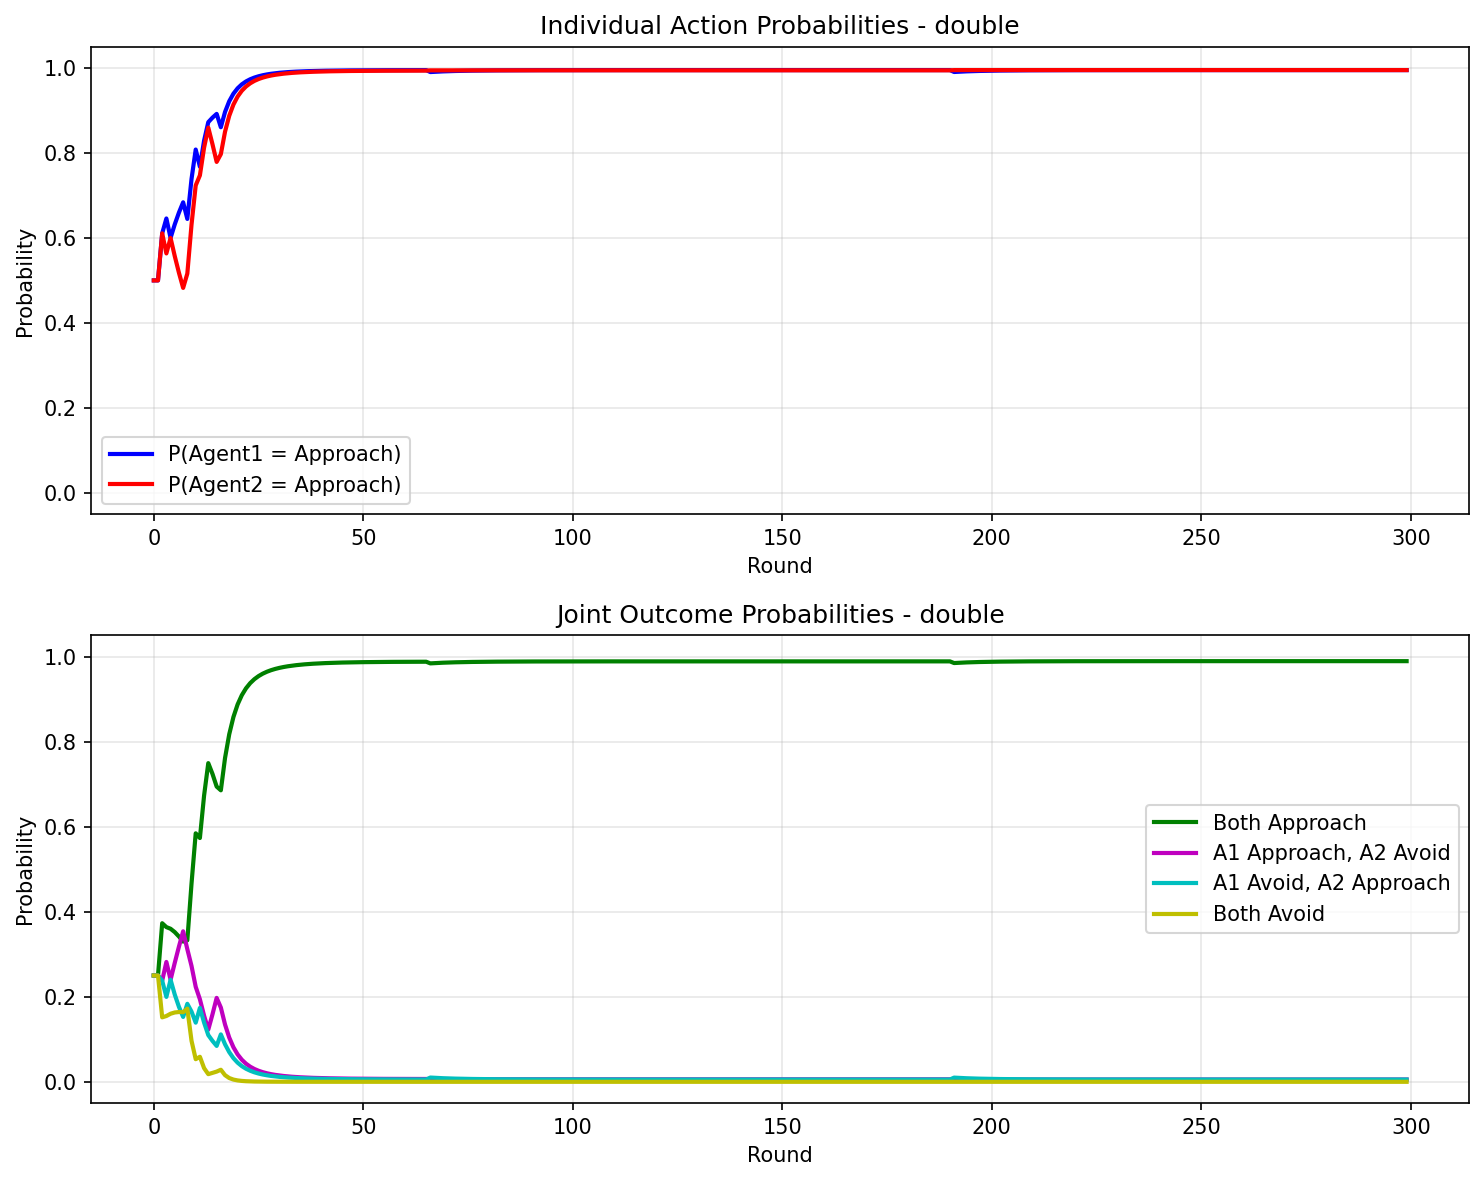
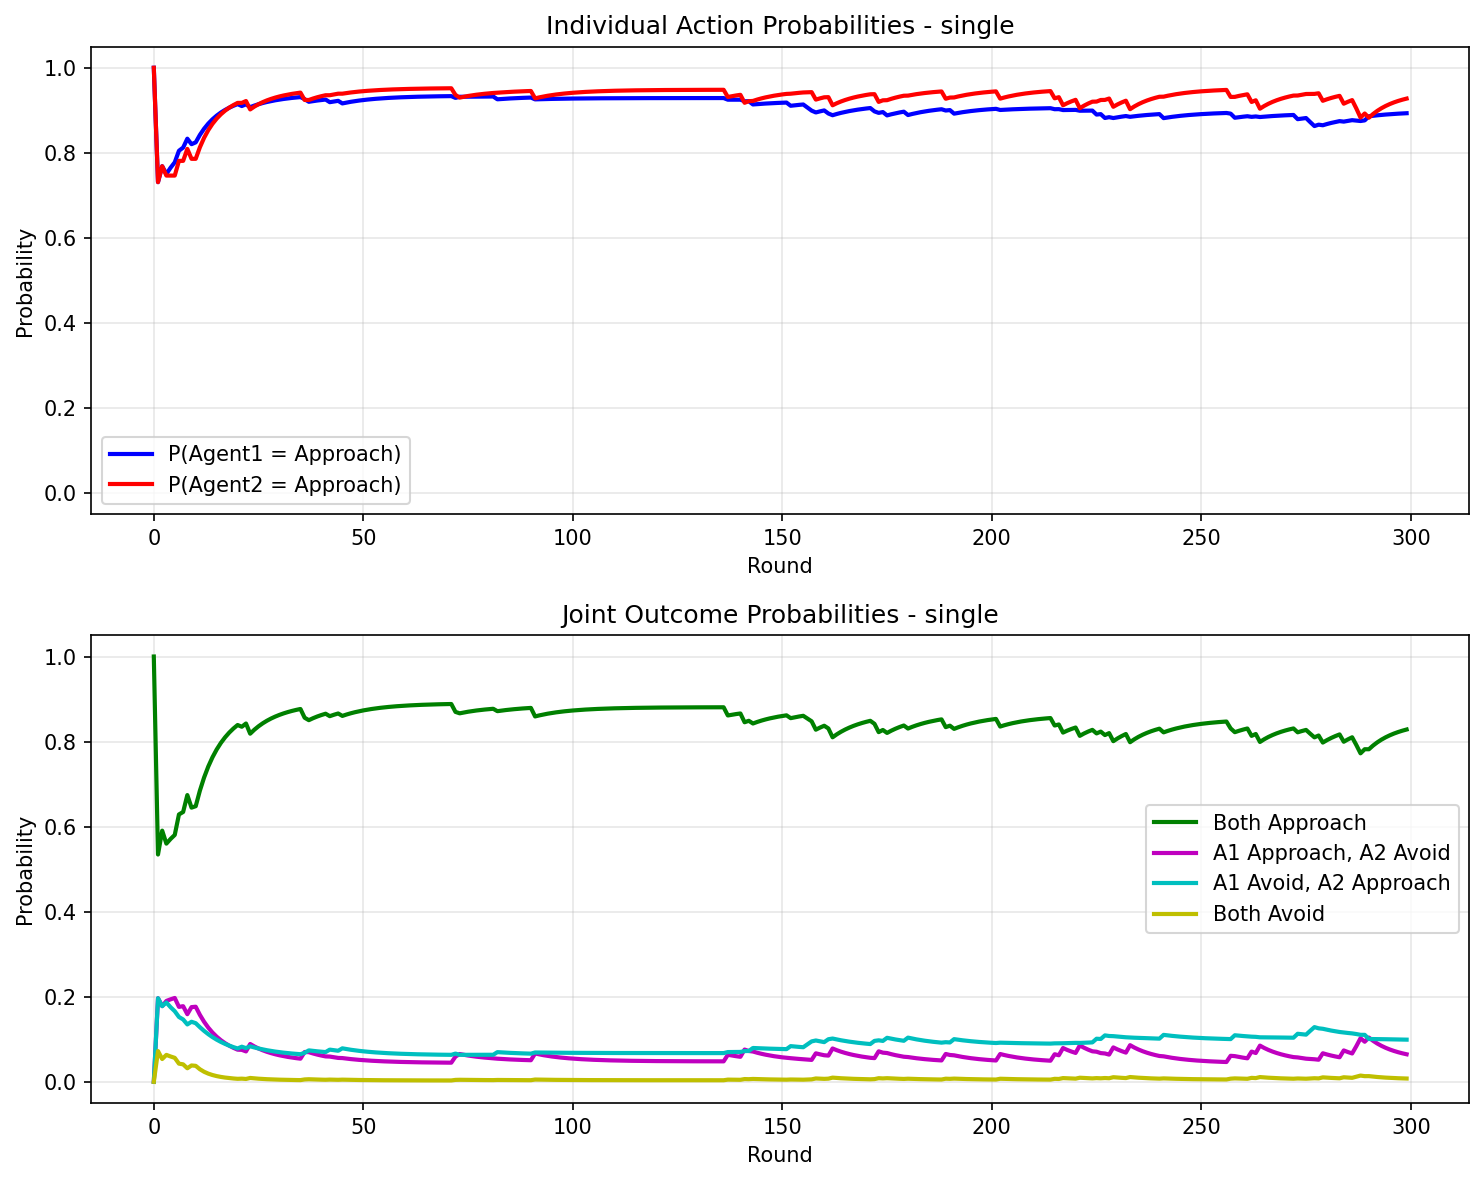
working

diff --git a/main.py b/main.py
@@ -16,9 +16,9 @@ from Plotting import plot_probabilities
 # PARAMETERS - Modify these to control the simulation
 # =============================================================================
 
-# Learning parameters
-ALPHA = 0.1  # Learning rate (0 to 1)
-BETA = 3.0  # Softmax temperature (higher = more exploitation)
+# Learningparameters
+ALPHA = 0.1  # Learning rate (0 to 1) (0.1 for normali-ish, deterministic)
+BETA = 1  # Softmax temperature (higher = more exploitation) (3 more normal-ish, deterministic)
 
 # Simulation parameters
 ROUNDS = 300  # Number of interaction rounds
@@ -28,7 +28,7 @@ ROUNDS = 300  # Number of interaction rounds
 #   - "double": Two Nash equilibria (bistable - converges to one of two attractors)
 #   - "single": One Nash equilibrium (globally stable - always converges to same point)
 #   - "circular": No pure Nash (cyclical dynamics - oscillates)
-SCENARIO = "circular"
+SCENARIO = "single"
 
 # Output
 SAVE_PLOT = True  # Whether to save the plot
